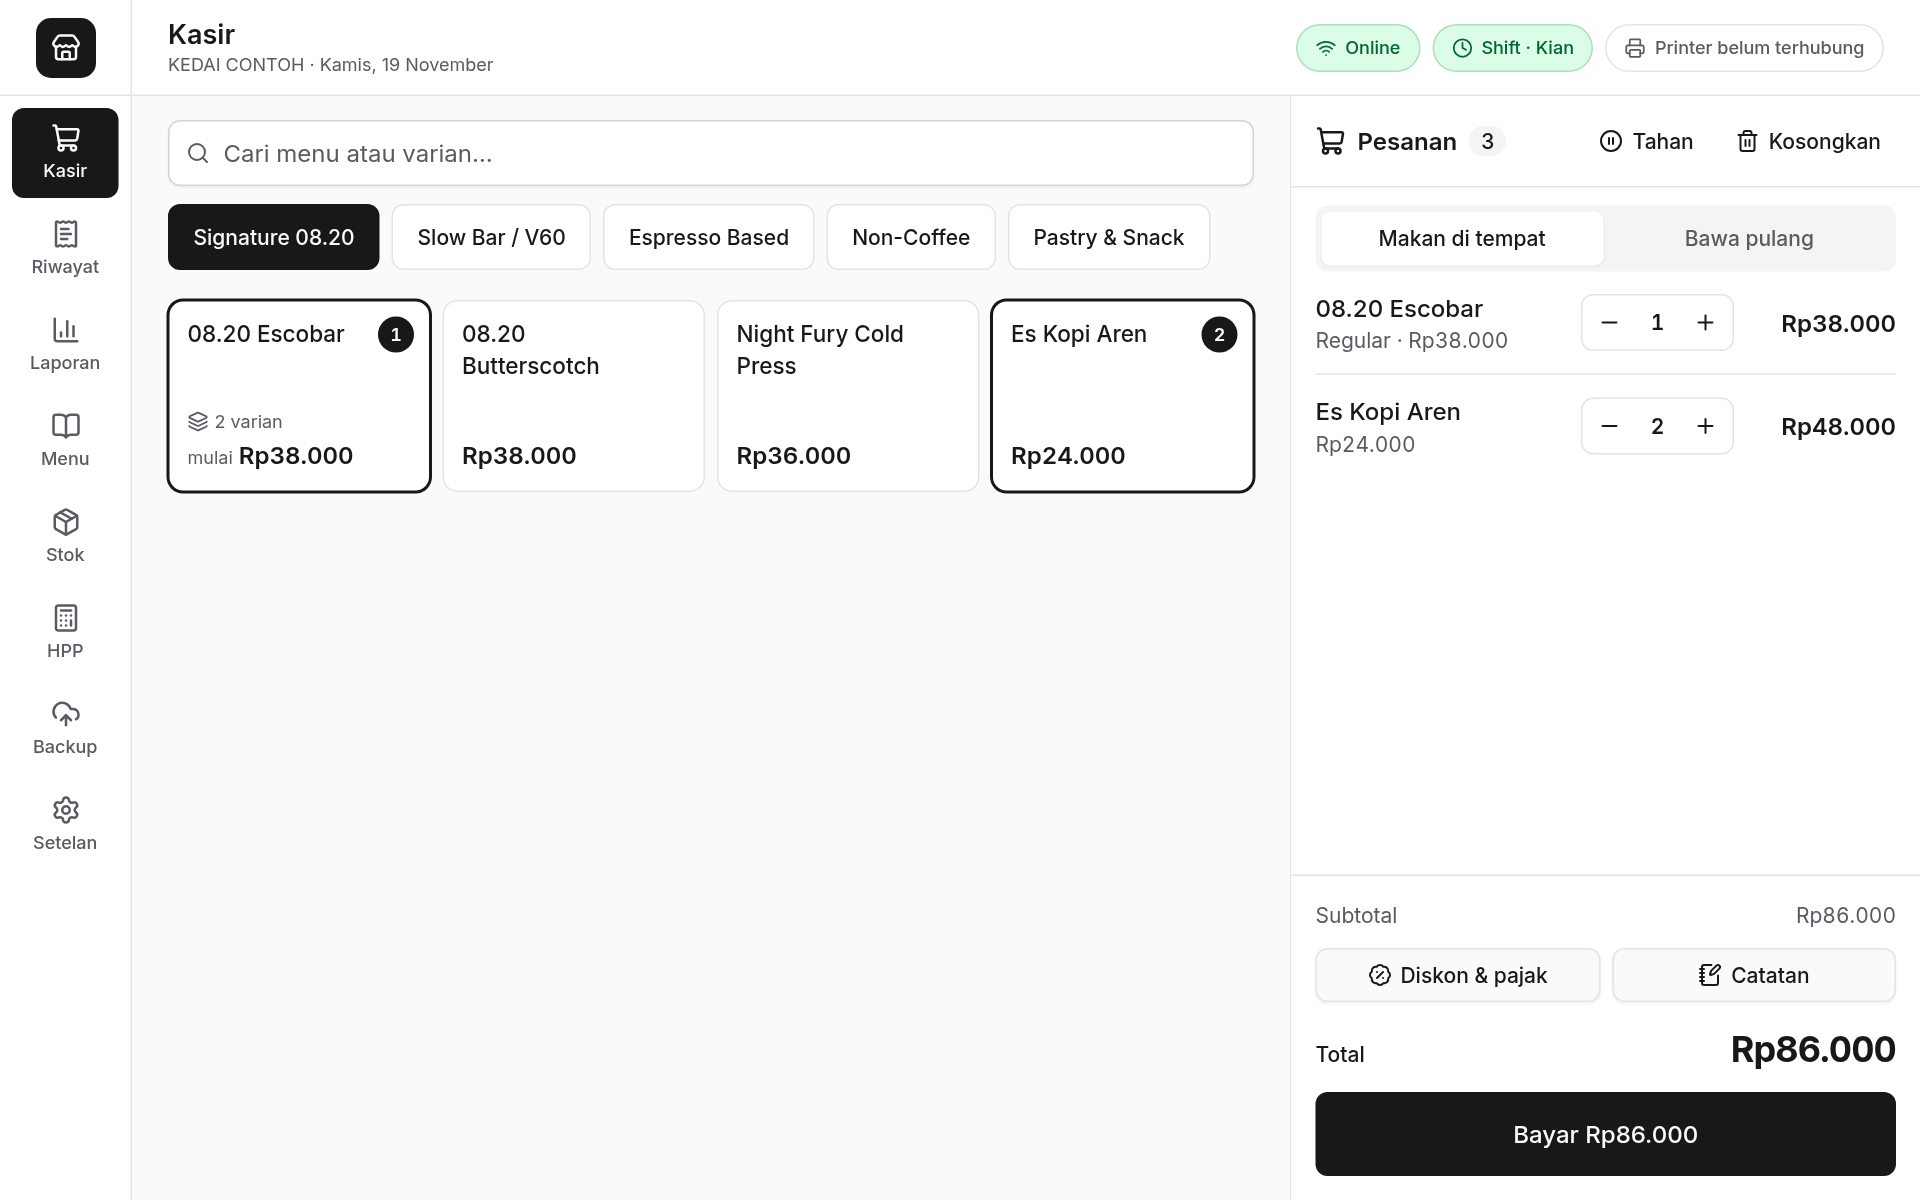
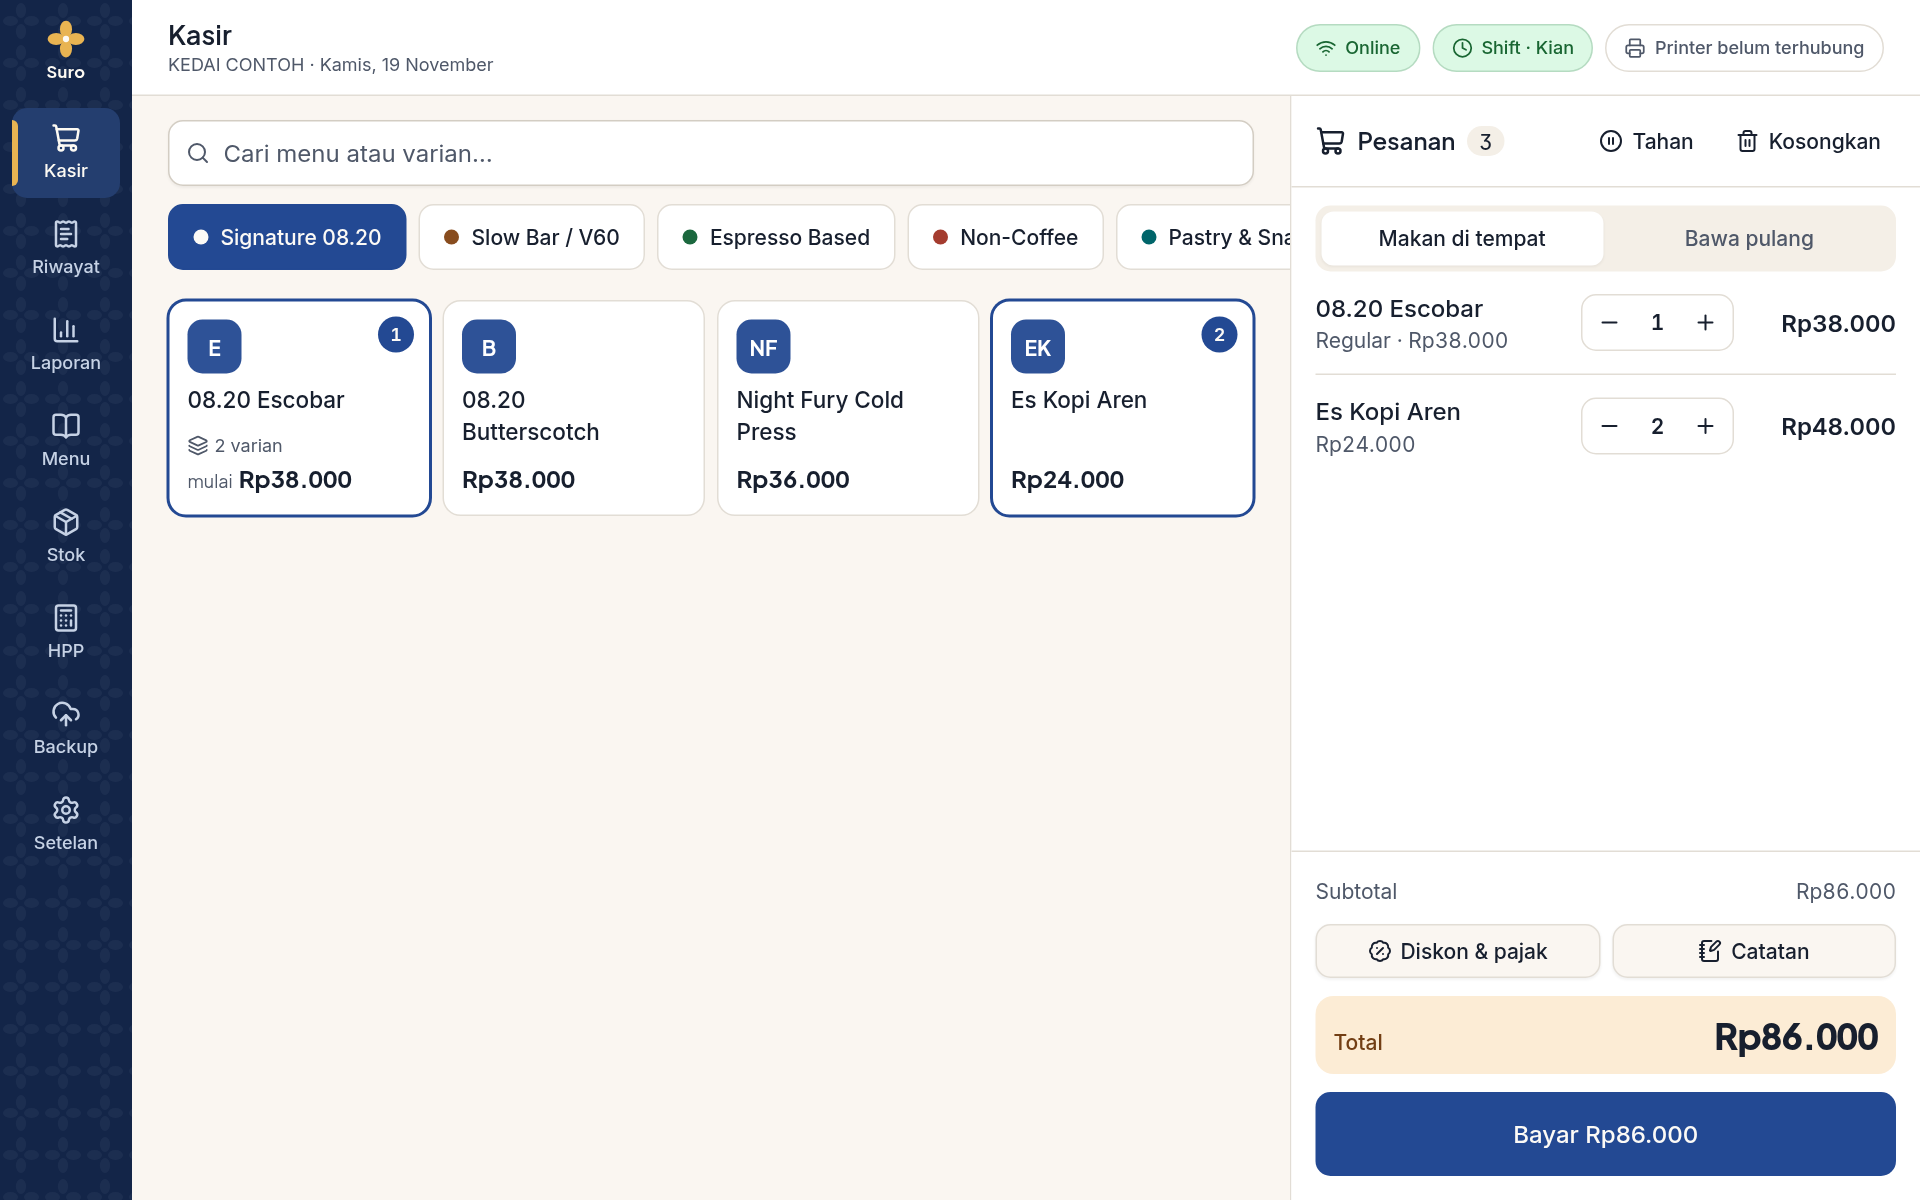
docs(design): describe the Suro POS identity and refresh screenshots

diff --git a/docs/design-system.md b/docs/design-system.md
@@ -23,10 +23,25 @@ exposed to Tailwind through `@theme inline` (`bg-primary`, `text-muted-foregroun
 `border-border`, `bg-success-soft`, ...). Components never use literal hex,
 rgb, or hsl values.
 
-- Palette: neutral zinc greys, near-black primary. Color carries meaning only:
-  `success` (paid, change due), `destructive` (void, delete, errors),
-  `warning` (low stock, offline), `info` (sync, hints).
-- Radius: `--radius` 0.5rem. Cards `rounded-lg`, controls `rounded-md`, pills
+- Identity: Suro POS takes its look from Surakarta batik. **Nila** (natural
+  indigo, `primary`) carries actions, focus, selection, and the sidebar.
+  **Sogan** (warm brown-gold, `sogan`, `sogan-soft`, `sogan-strong`) is the
+  accent and appears only at the key moment: the brand mark, the active
+  navigation marker, and the cart total. The base is warm paper
+  (`background`) with white cards.
+- Brand mark: one kawung motif (`src/components/common/BrandMark.tsx`). The
+  repeating kawung texture (`KawungPattern`) is used once, at 5% opacity,
+  behind the tablet sidebar. Do not add it elsewhere.
+- Category colors (`cat-1` … `cat-6`) are muted batik tones assigned by
+  category position. They mark which category a product belongs to (chip dot
+  and tile monogram) so cashiers find items faster. They are not decoration;
+  do not use them for anything else.
+- Status colors carry meaning only: `success` (paid, change due),
+  `destructive` (void, delete, errors), `warning` (low stock, offline),
+  `info` (sync, hints).
+- Type: Inter for body text and tables; Plus Jakarta Sans (`font-display`,
+  designed in Jakarta) for headings, the brand, and large amounts.
+- Radius: `--radius` 0.625rem. Cards `rounded-lg`, controls `rounded-md`, pills
   only for status badges.
 - Shadows: none on cards; a border separates surfaces. Popovers and dialogs use
   the shadcn defaults.
